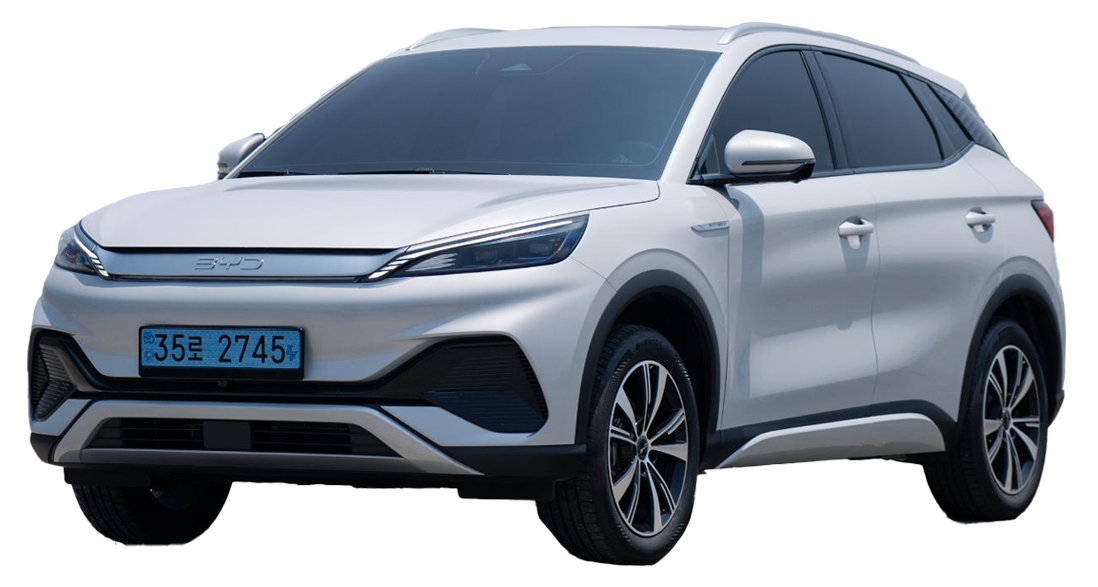
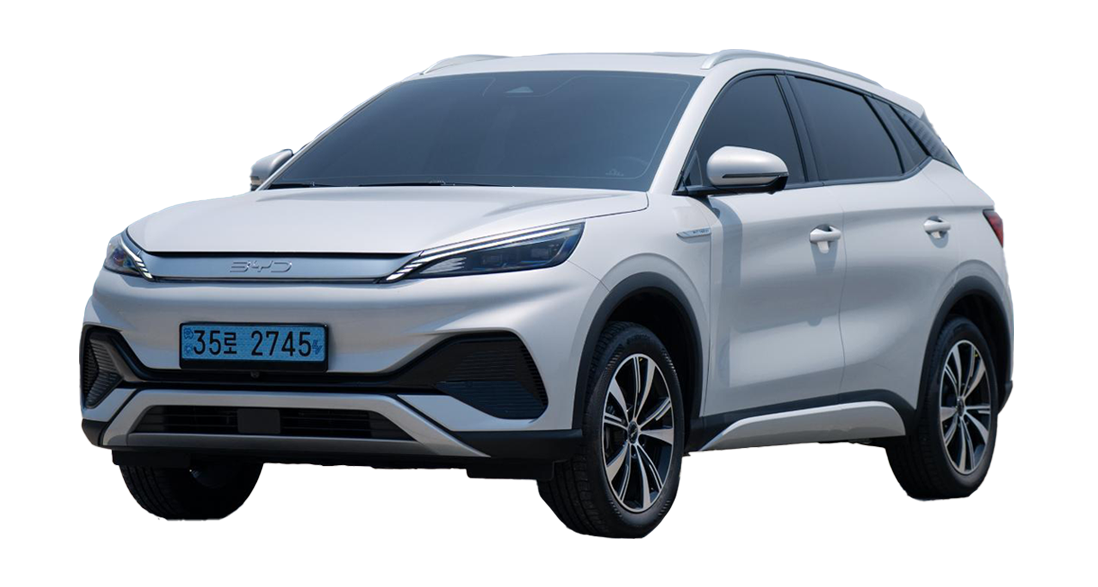
2026.06.12 : 프로젝트 커밋

diff --git a/src/main/resources/static/js/script.js b/src/main/resources/static/js/script.js
@@ -96,9 +96,14 @@ document.addEventListener("DOMContentLoaded", function () {
 
 
 $(document).on('click', '.car_list li', function () {
+
     const num = $(this).data('num');
-    const newSrc = '/img/car_list0' + num + '_big.png';
+    const link = $(this).data('link');
+
+    const newSrc = '/img/car_list0' + num + '_big.png?ver=20260612';
+
     const $mainImg = $('.main_car_img');
+    const $mainLink = $('.main_car_link');
 
     $('.car_list li').removeClass('on');
     $(this).addClass('on');
@@ -106,7 +111,12 @@ $(document).on('click', '.car_list li', function () {
     $mainImg.css('opacity', 0);
 
     setTimeout(function () {
+
         $mainImg.attr('src', newSrc);
+        $mainLink.attr('href', link);
+
         $mainImg.css('opacity', 1);
+
     }, 200);
+
 });

diff --git a/src/main/resources/static/css/style.css b/src/main/resources/static/css/style.css
@@ -473,7 +473,7 @@ body.host .btn_multi input:disabled + label {pointer-events: none;}
 .main_car{ background: url(/img/car_list_bg.png) no-repeat;background-position: center; background-size: cover; height: 100vh;}
 .main_car .inner{display: flex; flex-direction: column;height: 100%; justify-content: center;}
 .main_car .car_top{display: flex; align-items: center; justify-content: space-between;width: 100%; max-width: 1360px; margin: 0 auto; position: relative; color: #fff; font-size: 60px; font-weight: 600; padding: 280px 0;}
-.main_car .car_top img{position: absolute; left:50%; transform: translateX(-52%);max-width: 900px;} 
+.main_car .car_top a{position: absolute; left:50%; transform: translateX(-52%);width: 100%; max-width: 900px;} 
 .main_car .car_list ul{display: flex; justify-content: center; align-items: center;gap: 60px;}
 .main_car .car_list div{color: #fff; text-align: center;font-size: 24px;font-weight: 600;}
 
@@ -519,7 +519,7 @@ body.host .btn_multi input:disabled + label {pointer-events: none;}
 
 @media screen and (max-width:1400px) {
     .main_car .car_top{width: 90%;font-size: 48px;padding: 240px 0;}
-    .main_car .car_top img{width: 60%;}
+    .main_car .car_top a{width: 60%;}
     .main_car .car_list{width: 90%;margin: 0 auto;}
     .main_car .car_list ul{gap: 20px;}
     .main_car .car_list ul li{margin: 0 auto; text-align: center;}
@@ -564,7 +564,7 @@ body.host .btn_multi input:disabled + label {pointer-events: none;}
     .main .date_box ul li:after{display: none;}
     
     .main_car .car_top{padding: 200px 0 100px;font-size: 28px;}
-    .main_car .car_top img{top: 0; width: 90%;}
+    .main_car .car_top a{top: 0; width: 90%;}
     .main_car .car_list{width: 100%;}
     .main_car .car_list ul {gap: 30px 20px;}
     .main_car .car_list ul li img{width: 100%; max-width: 130px;}